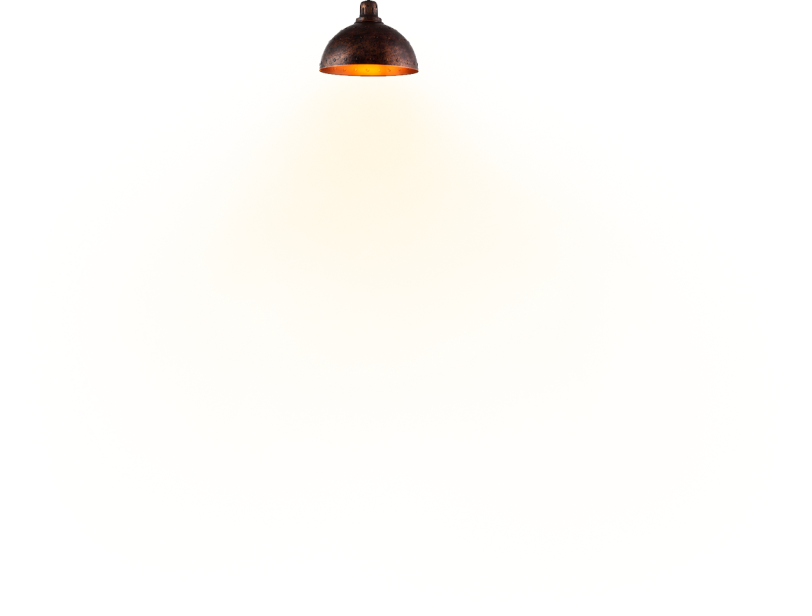
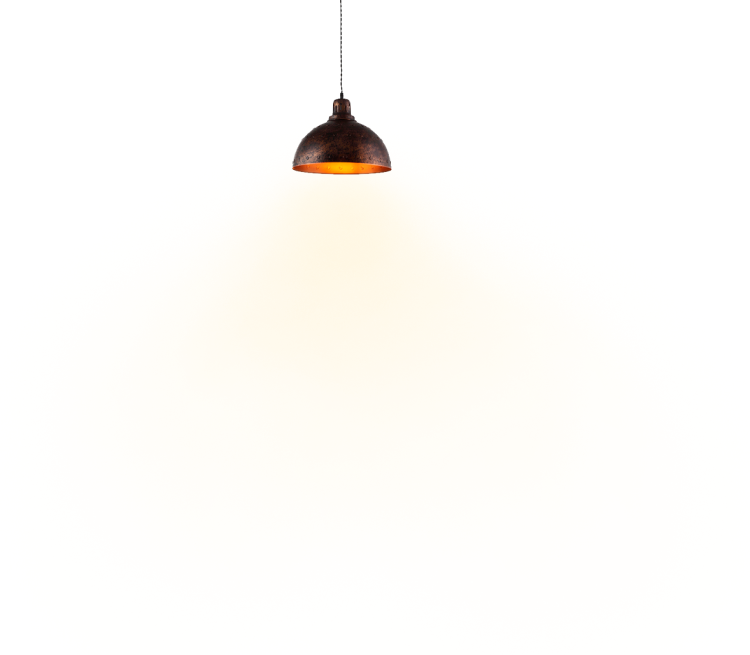
Исправление багов

Changed region(s): [[0.368, 0.0, 0.5213, 0.2776]]

diff --git a/designloft/src/css/style.min.css b/designloft/src/css/style.min.css
@@ -1,0 +1,2 @@
+*{-webkit-box-sizing:border-box;box-sizing:border-box}ul{list-style:none;padding:0}.container{display:-ms-grid;display:grid;-ms-grid-columns:1fr 4fr 2fr 1fr;grid-template-columns:1fr 4fr 2fr 1fr;-webkit-box-align:center;-ms-flex-align:center;align-items:center}@media (max-width: 768px){.container{-ms-grid-columns:1fr;grid-template-columns:1fr;padding:0 20px}}.price-dots{display:-webkit-box;display:-ms-flexbox;display:flex;-webkit-box-pack:center;-ms-flex-pack:center;justify-content:center;margin-top:30px}.price-dot{display:none;padding:0;border:none;background:#c4c4c4;width:5px;height:5px;border-radius:50%;margin:0 10px;opacity:0.25}.list{width:737px}.list__item{display:inline-block;margin-right:10px}.list__item:last-child{margin-right:0}p{margin:0}img{max-width:100%}a{text-decoration:none;color:#fff}body{color:#fff;font-family:'Montserrat', sans-serif}.logo{font-size:18px;text-transform:uppercase}.logo__dot{color:#FF6A2B}.button{border:none;padding:15px 45px;background:#FF6A2B;-webkit-box-shadow:0px 0px 20px rgba(255,106,43,0.4);box-shadow:0px 0px 20px rgba(255,106,43,0.4);border-radius:30px;color:#fff;font-size:18px;line-height:22px;cursor:pointer;-webkit-transition:all 0.4s ease;-o-transition:all 0.4s ease;transition:all 0.4s ease}.button:hover{background:#ff5f1c}.button:focus{outline:none}.section{padding:60px 0}.section-title{font-size:36px;font-weight:700;text-align:center;-ms-grid-row:1;-ms-grid-row-span:1;grid-row:1/2;-ms-grid-column:2;-ms-grid-column-span:2;grid-column:2/4}.section-subtitle{font-size:22px;font-weight:400;letter-spacing:150%;max-width:445px}.input{font-size:22px;font-weight:400;text-align:center;background:none;border:none;max-width:350px;border-bottom:2px solid #C2C2C2;padding:13px;color:#fff}.input:focus{outline:none;border-bottom:2px solid #FF6A2B}.form{text-align:center;width:90%;-ms-grid-column-align:center;justify-self:center}.form__title{font-size:36px;font-weight:700;padding:0 15px;background:#262626}.form__subtitle{display:block;margin:30px auto;font-size:18px;font-weight:400;line-height:150%}.form__input{display:block;margin:60px auto}.form__button{margin:auto;margin-bottom:60px}@media (min-width: 1200px){.list__item::after{content:'';display:block;width:100%;height:1px;background:#FF6A2B;margin-top:5px;opacity:0;-webkit-transition:all 0.9s ease;-o-transition:all 0.9s ease;transition:all 0.9s ease}.list__item:hover::after{opacity:1}}@media (max-width: 1200px){.section-title{font-size:22px;line-height:1.2}}@media (max-width: 768px){.section-title{font-size:20px}.input{font-size:16px}.price-dot{display:block}.price-dot.active{opacity:1;-webkit-transform:scale(1.3);-ms-transform:scale(1.3);transform:scale(1.3)}.form{width:100%}.form__title{font-size:20px}.form__subtitle{font-size:14px}}.navbar{position:absolute;top:0;left:0;background:transparent;-webkit-box-shadow:0px 10px 20px rgba(0,0,0,0.2);box-shadow:0px 10px 20px rgba(0,0,0,0.2);width:100%;display:-ms-grid;display:grid;-ms-grid-columns:1fr 4fr 2fr 1fr;grid-template-columns:1fr 4fr 2fr 1fr;-webkit-box-align:center;-ms-flex-align:center;align-items:center;padding:20px 1%;z-index:99}.navbar-button,.navbar-call{display:none}.navbar__logo{-ms-grid-column:1;-ms-grid-column-span:1;grid-column:1/2;-ms-grid-row:1;-ms-grid-row-span:1;grid-row:1/2;-ms-grid-column-align:center;justify-self:center;padding-right:30px}.navbar-list{-ms-grid-column:2;-ms-grid-column-span:1;grid-column:2/3}.navbar-list__link{font-size:18px;font-weight:400}.navbar__contacts{-ms-grid-column:3;-ms-grid-column-span:1;grid-column:3/4;-ms-grid-row:1;-ms-grid-row-span:1;grid-row:1/2;-ms-grid-column-align:end;justify-self:end;text-align:right}.navbar__description{display:block;font-size:12px;color:#bfbfbf}.navbar__phone{color:#fff;font-size:22px;font-weight:300}.navbar__lang{font-size:18px;background:none;width:55px;border:none;color:#fff;cursor:pointer;text-transform:uppercase;-ms-grid-column-align:center;justify-self:center;-ms-grid-column:4;-ms-grid-column-span:1;grid-column:4/5;-ms-grid-row:1;-ms-grid-row-span:1;grid-row:1/2}.navbar__lang:focus{outline:none}.navbar__option{background:#131313;cursor:pointer}@media (max-width: 1200px){.navbar{-ms-grid-columns:1fr 2fr 3fr;grid-template-columns:1fr 2fr 3fr}.navbar__logo{-ms-grid-column:1;-ms-grid-column-span:1;grid-column:1/2}.navbar-list{-ms-grid-row:2;-ms-grid-row-span:1;grid-row:2/3;-ms-grid-column:1;-ms-grid-column-span:3;grid-column:1/4;margin-top:20px;-ms-grid-column-align:start;justify-self:start}.navbar-list__link{font-size:16px}.navbar__contacts{-ms-grid-column:3;-ms-grid-column-span:1;grid-column:3/4;-ms-grid-row:1;-ms-grid-row-span:1;grid-row:1/2}.navbar__lang{-ms-grid-row:1;-ms-grid-row-span:2;grid-row:1/3;margin-right:20px}}@media (max-width: 768px){.navbar{-ms-grid-columns:1fr 4fr 1fr;grid-template-columns:1fr 4fr 1fr}.navbar-button{display:-webkit-box;display:-ms-flexbox;display:flex;-webkit-box-orient:vertical;-webkit-box-direction:normal;-ms-flex-direction:column;flex-direction:column;-webkit-box-pack:center;-ms-flex-pack:center;justify-content:center;-ms-grid-column:1;-ms-grid-column-span:1;grid-column:1/2;-ms-grid-row:1;-ms-grid-row-span:1;grid-row:1/2;height:100%;justify-self:center;background-color:transparent;border:none}.navbar-button__line{display:block;width:22px;height:2px;background-color:#e6e6e6;margin-bottom:4px}.navbar-button__line:last-child{margin-bottom:0}.navbar__logo{-ms-grid-column:2;-ms-grid-column-span:1;grid-column:2/3;-ms-grid-row:1;-ms-grid-row-span:1;grid-row:1/2;padding-right:0}.navbar-list{display:none}.navbar__contacts{display:none}.navbar__lang{display:none}.navbar-call{display:block;width:16px;height:16px;-ms-grid-row:1;-ms-grid-row-span:1;grid-row:1/2;-ms-grid-column:3;-ms-grid-column-span:1;grid-column:3/4;-ms-grid-column-align:center;justify-self:center}}.header{position:relative;background-color:#131313;display:-ms-grid;display:grid;-webkit-box-align:center;-ms-flex-align:center;align-items:center;position:relative}.header-light{position:absolute;top:0;left:7%;-o-object-fit:cover;object-fit:cover;overflow:hidden;-webkit-transform:translateX(-7%);-ms-transform:translateX(-7%);transform:translateX(-7%)}.header__title{-ms-grid-column:2;-ms-grid-column-span:1;grid-column:2/3;-ms-grid-row:1;-ms-grid-row-span:1;grid-row:1/2;font-size:44px;font-weight:700;max-width:710px;margin-bottom:40px;margin-top:140px}.header-list{-ms-grid-column:2;-ms-grid-column-span:1;grid-column:2/3;-ms-grid-row:2;-ms-grid-row-span:1;grid-row:2/3;padding-left:30px}.header-list__item{font-size:20px;font-weight:400;margin-bottom:20px;position:relative;padding-left:30px}.header-list__item::before{content:'';display:block;width:9px;height:9px;background:#ff8e5e;-webkit-filter:blur(4px);filter:blur(4px);position:absolute;top:0;left:0;-webkit-transform:translateY(50%);-ms-transform:translateY(50%);transform:translateY(50%)}.header-list__item:last-child{margin-bottom:60px}.header__button{margin-left:100px;max-width:175px;position:relative;z-index:5;-ms-grid-row:3;-ms-grid-row-span:1;grid-row:3/4;-ms-grid-column:2;-ms-grid-column-span:1;grid-column:2/3}.header__image{-ms-grid-column:3;-ms-grid-column-span:1;grid-column:3/4;-ms-grid-row:1;-ms-grid-row-span:3;grid-row:1/4;-ms-grid-column-align:center;justify-self:center;margin-top:130px}.header-info{background-color:#292929;padding:95px 100px;-ms-grid-row:4;-ms-grid-row-span:1;grid-row:4/5;-ms-grid-column:2;-ms-grid-column-span:2;grid-column:2/4;width:90%;position:relative;-webkit-transform:translateY(70%);-ms-transform:translateY(70%);transform:translateY(70%);margin:0 auto;margin-top:-5%}.header__description{text-align:center;font-size:22px;font-weight:400;line-height:150%;max-width:676px;margin:auto}.corner-left,.corner-right{display:-webkit-box;display:-ms-flexbox;display:flex;-webkit-box-orient:vertical;-webkit-box-direction:normal;-ms-flex-direction:column;flex-direction:column;-webkit-box-align:center;-ms-flex-align:center;align-items:center;-webkit-box-pack:center;-ms-flex-pack:center;justify-content:center;width:140px;height:80px}.corner-left{position:absolute;top:-10px;left:-40px;-webkit-transform:rotate(-45deg);-ms-transform:rotate(-45deg);transform:rotate(-45deg)}.corner-right{position:absolute;top:-10px;right:-40px;-webkit-transform:rotate(45deg);-ms-transform:rotate(45deg);transform:rotate(45deg)}.corner__line{display:block;width:97px;height:8px;background:#383838;margin-bottom:7px;border-radius:12px}.long_line{width:130px}@media (max-width: 1200px){.header__title{font-size:36px}.header-list__item{font-size:16px}.header__image{-ms-grid-column:3;-ms-grid-column-span:2;grid-column:3/5}}@media (max-width: 768px){.header{background-color:#131313;-ms-grid-columns:1fr;grid-template-columns:1fr;-ms-grid-rows:(auto)[2];grid-template-rows:repeat(2, auto);padding:0 15px}.header__title{font-size:22px;margin-top:110px;text-align:center;-ms-grid-column:1;-ms-grid-column-span:3;grid-column:1/4}.header__image{-ms-grid-row:2;-ms-grid-row-span:1;grid-row:2/3;-ms-grid-column:1;-ms-grid-column-span:3;grid-column:1/4;margin-top:0;-ms-grid-column-align:center;justify-self:center}.header-list{-ms-grid-row:3;-ms-grid-row-span:1;grid-row:3/4;grid-column:span 4}.header__button{-ms-grid-row:4;-ms-grid-row-span:1;grid-row:4/5;-ms-grid-column:1;-ms-grid-column-span:1;grid-column:1/2;display:block;width:300px;margin:auto;margin-top:-5%}.header-info{-ms-grid-column:1;-ms-grid-column-span:3;grid-column:1/4;padding:50px 20px}.header__description{font-size:16px}.corner-left,.corner-right{display:none}}.features{background:#262626;padding-top:300px;padding-bottom:110px}.features-title{display:block;margin:0;font-size:32px;line-height:39px;font-weight:700;max-width:445px;position:relative}.features-title::after{content:'';display:block;width:70px;height:4px;background:#FF6A2B;margin-top:20px}.features-subtitle{font-size:22px;font-weight:400;letter-spacing:150%;max-width:445px}.features-first{display:-ms-grid;display:grid;-ms-grid-columns:2fr 4fr;grid-template-columns:2fr 4fr;grid-auto-rows:2,auto;-ms-grid-column:2;-ms-grid-column-span:2;grid-column:2/4;-webkit-box-align:center;-ms-flex-align:center;align-items:center}.features-first__title{-ms-grid-column:1;-ms-grid-column-span:2;grid-column:1/3;-ms-grid-row:1;-ms-grid-row-span:1;grid-row:1/2}.features-first__subtitle{-ms-grid-column:1;-ms-grid-column-span:2;grid-column:1/3;-ms-grid-row:2;-ms-grid-row-span:1;grid-row:2/3}.features-first__img{-ms-grid-column:3;-ms-grid-column-span:1;grid-column:3/4;-ms-grid-row:1;-ms-grid-row-span:2;grid-row:1/3;position:relative;padding:20px;max-width:540px}.features-first__left,.features-first__right{width:50%;height:50%;position:absolute}.features-first__left{bottom:0;left:0;border-left:4px solid #999;border-bottom:4px solid #999}.features-first__right{top:0;right:0;border-right:4px solid #999;border-top:4px solid #999}.features__description{-ms-grid-row:3;-ms-grid-row-span:1;grid-row:3/4;-ms-grid-column:2;-ms-grid-column-span:2;grid-column:2/4;display:block;margin:0 auto;margin-top:110px;margin-bottom:30px;font-size:24px;line-height:34px;font-weight:400;text-align:center;max-width:951px}.features-pictures{-ms-grid-row:4;-ms-grid-row-span:1;grid-row:4/5;-ms-grid-column:2;-ms-grid-column-span:2;grid-column:2/4;display:-ms-grid;display:grid;-ms-grid-column-align:center;justify-self:center;-ms-grid-columns:(1fr)[2];grid-template-columns:repeat(2, 1fr);-webkit-column-gap:30px;column-gap:30px}.features-picture:last-child{position:relative;left:40%;top:-70%}.features-picture:nth-child(2){margin-top:50px}.features-second{display:-ms-grid;display:grid;-ms-grid-columns:2fr 4fr;grid-template-columns:2fr 4fr;-ms-grid-column:2;-ms-grid-column-span:2;grid-column:2/4;-ms-grid-row:5;-ms-grid-row-span:1;grid-row:5/6;-webkit-box-align:center;-ms-flex-align:center;align-items:center;z-index:4}.features-second__title{-ms-grid-row:1;-ms-grid-row-span:1;grid-row:1/2;-ms-grid-column:3;-ms-grid-column-span:1;grid-column:3/4;-ms-grid-column-align:end;justify-self:end;margin-left:20px}.features-second__subtitle{-ms-grid-row:2;-ms-grid-row-span:1;grid-row:2/3;-ms-grid-column:3;-ms-grid-column-span:1;grid-column:3/4;-ms-grid-column-align:end;justify-self:end;margin-left:20px}.features-second__img{-ms-grid-column:1;-ms-grid-column-span:2;grid-column:1/3;-ms-grid-row:1;-ms-grid-row-span:2;grid-row:1/3;max-width:540px;position:relative;z-index:10;padding:20px}.features-second__left,.features-second__right{width:50%;height:50%;position:absolute;z-index:6}.features-second__left{top:0;left:0;border-left:4px solid #999;border-top:4px solid #999}.features-second__right{bottom:0;right:0;border-right:4px solid #999;border-bottom:4px solid #999}@media (max-width: 1200px){.features-title{font-size:20px;line-height:1.4}.features-first{-ms-grid-columns:4fr 2fr;grid-template-columns:4fr 2fr}.features-first__img{max-width:320px;padding:10px;-ms-grid-column:3;-ms-grid-column-span:1;grid-column:3/4}.features-first__subtitle{font-size:16px;max-width:350px}.features__description{font-size:18px;line-height:1.4}.features-second{-ms-grid-columns:4fr 1fr;grid-template-columns:4fr 1fr;margin:0 auto}.features-second__img{width:320px;min-width:100%;padding:10px;-ms-grid-column:1;-ms-grid-column-span:1;grid-column:1/2}.features-second__title{-ms-grid-column:3;-ms-grid-column-span:2;grid-column:3/5;margin-left:20px}.features-second__subtitle{font-size:16px;max-width:350px;-ms-grid-column-align:start;justify-self:start;-ms-grid-column:3;-ms-grid-column-span:2;grid-column:3/5;margin-left:20px}}@media (max-width: 768px){.features-first,.features-second{-ms-grid-columns:1fr;grid-template-columns:1fr;-ms-grid-column-align:center;justify-self:center}.features-first__title,.features-second__title{-ms-grid-column:1;-ms-grid-column-span:4;grid-column:1/5;-ms-grid-row:1;-ms-grid-row-span:1;grid-row:1/2}.features-first__subtitle,.features-second__subtitle{-ms-grid-column:1;-ms-grid-column-span:4;grid-column:1/5;margin-top:20px;margin-bottom:20px}.features-first__img,.features-second__img{-ms-grid-row:3;-ms-grid-row-span:1;grid-row:3/4;-ms-grid-column:1;-ms-grid-column-span:4;grid-column:1/5;max-width:100%;padding:0}.features-first__left,.features-first__right,.features-second__left,.features-second__right{display:none}.features-second__title{-ms-grid-column:1;-ms-grid-column-span:4;grid-column:1/5;-ms-grid-row:1;-ms-grid-row-span:1;grid-row:1/2;margin-left:0}.features-second__subtitle{-ms-grid-column:1;-ms-grid-column-span:4;grid-column:1/5;margin-top:20px;margin-bottom:20px;margin-left:0}.features-second__img{-ms-grid-row:3;-ms-grid-row-span:1;grid-row:3/4;-ms-grid-column:1;-ms-grid-column-span:4;grid-column:1/5;max-width:100%;padding:0;margin-right:0}.features-second__left,.features-second__right{display:none}.features-pictures{-webkit-column-gap:0px;column-gap:0px;row-gap:10px;margin-bottom:20px;-ms-grid-rows:(auto)[2];grid-template-rows:repeat(2, auto);-ms-grid-column-align:center;justify-self:center;padding-left:5%}.features-picture{max-width:252px}.features-picture:last-child{top:50%;left:-50%}.features-picture:nth-child(2){-ms-grid-row:2;-ms-grid-row-span:1;grid-row:2/3;-ms-grid-column:1;-ms-grid-column-span:1;grid-column:1/2;margin-top:0}}.projects{background:#131313;-ms-grid-rows:(auto)[2];grid-template-rows:repeat(2, auto)}.projects-row{-ms-grid-row:2;-ms-grid-row-span:1;grid-row:2/3;-ms-grid-column:2;-ms-grid-column-span:2;grid-column:2/4;display:-ms-grid;display:grid;-ms-grid-columns:(auto)[4];grid-template-columns:repeat(4, auto);-ms-grid-rows:(auto)[4];grid-template-rows:repeat(4, auto);-ms-grid-row-align:center;align-self:center;-webkit-box-pack:center;-ms-flex-pack:center;justify-content:center;grid-auto-columns:fill-content(20%);grid-gap:30px;margin-bottom:80px}.projects__img{-ms-flex-item-align:center;-ms-grid-row-align:center;align-self:center;position:relative}.projects__img:nth-child(1){-ms-grid-column:1;-ms-grid-column-span:1;grid-column:1/2;-ms-grid-row:1;-ms-grid-row-span:1;grid-row:1/2}.projects__img:nth-child(2){-ms-grid-column:1;-ms-grid-column-span:1;grid-column:1/2;-ms-grid-row:2;-ms-grid-row-span:1;grid-row:2/3}.projects__img:nth-child(3){-ms-grid-row:1;-ms-grid-row-span:2;grid-row:1/3;-ms-grid-column:2;-ms-grid-column-span:1;grid-column:2/3}.projects__img:nth-child(4){-ms-grid-row:1;-ms-grid-row-span:2;grid-row:1/3;-ms-grid-column:3;-ms-grid-column-span:2;grid-column:3/5}.projects__img:nth-child(5){-ms-grid-row:3;-ms-grid-row-span:2;grid-row:3/5;-ms-grid-column:1;-ms-grid-column-span:2;grid-column:1/3}.projects__img:nth-child(6){-ms-grid-row:3;-ms-grid-row-span:2;grid-row:3/5;-ms-grid-column:3;-ms-grid-column-span:1;grid-column:3/4}.projects__img:nth-child(7){-ms-grid-row:3;-ms-grid-row-span:1;grid-row:3/4;-ms-grid-column:4;-ms-grid-column-span:1;grid-column:4/5}.projects__img:nth-child(8){-ms-grid-row:4;-ms-grid-row-span:1;grid-row:4/5;-ms-grid-column:4;-ms-grid-column-span:1;grid-column:4/5}.projects__img::before{content:'';position:absolute;top:0;left:0;width:100%;height:100%;background-color:#000;opacity:0.3}.projects__text{position:absolute;bottom:0;left:0;width:100%;height:100%;display:-webkit-box;display:-ms-flexbox;display:flex;-webkit-box-align:end;-ms-flex-align:end;align-items:flex-end;background:transparent;padding-bottom:25px;padding:25px}.projects__subtitle{font-size:24px;font-weight:700;color:#fff}.projects__next{display:block;position:relative;font-size:18px;font-weight:400;margin-top:10px;margin-right:15px}.projects__arrow{margin-left:15px}.projects__button{-ms-grid-row:3;-ms-grid-row-span:1;grid-row:3/4;-ms-grid-column:2;-ms-grid-column-span:2;grid-column:2/4;-ms-grid-column-align:center;justify-self:center;text-align:center;padding:20px 30px}@media (max-width: 1200px){.projects__subtitle{font-size:18px}.projects__next{font-size:14px}.projects-row{grid-gap:10px}.projects__text{padding:10px}}@media (max-width: 768px){.projects__title{-ms-grid-column:1;-ms-grid-column-span:3;grid-column:1/4}.projects-row{grid-gap:10px;-ms-grid-columns:1fr;grid-template-columns:1fr;-ms-grid-row:2;-ms-grid-row-span:1;grid-row:2/3;-ms-grid-column:1;-ms-grid-column-span:3;grid-column:1/4;-ms-grid-column-align:center;justify-self:center}.projects__img:nth-child(-n+3),.projects__img:nth-child(n+6){display:none}.projects__img:nth-child(4){-ms-grid-row:1;-ms-grid-row-span:1;grid-row:1/2;-ms-grid-column:1;-ms-grid-column-span:5;grid-column:1/6}.projects__img:nth-child(5){-ms-grid-row:2;-ms-grid-row-span:1;grid-row:2/3;-ms-grid-column:1;-ms-grid-column-span:5;grid-column:1/6}.projects__button{-ms-grid-column:1;-ms-grid-column-span:3;grid-column:1/4}}.owl-carousel{display:none;width:100%;-webkit-tap-highlight-color:transparent;position:relative;z-index:1}.owl-carousel .owl-stage{position:relative;-ms-touch-action:pan-Y;touch-action:manipulation;-moz-backface-visibility:hidden}.owl-carousel .owl-stage:after{content:".";display:block;clear:both;visibility:hidden;line-height:0;height:0}.owl-carousel .owl-stage-outer{position:relative;overflow:hidden;-webkit-transform:translate3d(0px, 0px, 0px)}.owl-carousel .owl-wrapper,.owl-carousel .owl-item{-webkit-backface-visibility:hidden;-moz-backface-visibility:hidden;-ms-backface-visibility:hidden;-webkit-transform:translate3d(0, 0, 0);-moz-transform:translate3d(0, 0, 0);-ms-transform:translate3d(0, 0, 0)}.owl-carousel .owl-item{position:relative;min-height:1px;float:left;-webkit-backface-visibility:hidden;-webkit-tap-highlight-color:transparent;-webkit-touch-callout:none}.owl-carousel .owl-item img{display:block;width:100%}.owl-carousel .owl-nav.disabled,.owl-carousel .owl-dots.disabled{display:none}.owl-carousel .owl-nav .owl-prev,.owl-carousel .owl-nav .owl-next,.owl-carousel .owl-dot{cursor:pointer;-webkit-user-select:none;-moz-user-select:none;-ms-user-select:none;user-select:none}.owl-carousel .owl-nav button.owl-prev,.owl-carousel .owl-nav button.owl-next,.owl-carousel button.owl-dot{background:none;color:inherit;border:none;padding:0 !important;font:inherit}.owl-carousel.owl-loaded{display:block}.owl-carousel.owl-loading{opacity:0;display:block}.owl-carousel.owl-hidden{opacity:0}.owl-carousel.owl-refresh .owl-item{visibility:hidden}.owl-carousel.owl-drag .owl-item{-ms-touch-action:pan-y;touch-action:pan-y;-webkit-user-select:none;-moz-user-select:none;-ms-user-select:none;user-select:none}.owl-carousel.owl-grab{cursor:move;cursor:-webkit-grab;cursor:grab}.owl-carousel.owl-rtl{direction:rtl}.owl-carousel.owl-rtl .owl-item{float:right}.no-js .owl-carousel{display:block}.owl-carousel .animated{-webkit-animation-duration:1000ms;animation-duration:1000ms;-webkit-animation-fill-mode:both;animation-fill-mode:both}.owl-carousel .owl-animated-in{z-index:0}.owl-carousel .owl-animated-out{z-index:1}.owl-carousel .fadeOut{-webkit-animation-name:fadeOut;animation-name:fadeOut}@-webkit-keyframes fadeOut{0%{opacity:1}100%{opacity:0}}@keyframes fadeOut{0%{opacity:1}100%{opacity:0}}.owl-height{-webkit-transition:height 500ms ease-in-out;-o-transition:height 500ms ease-in-out;transition:height 500ms ease-in-out}.owl-carousel .owl-item .owl-lazy{opacity:0;-webkit-transition:opacity 400ms ease;-o-transition:opacity 400ms ease;transition:opacity 400ms ease}.owl-carousel .owl-item .owl-lazy[src^=""],.owl-carousel .owl-item .owl-lazy:not([src]){max-height:0}.owl-carousel .owl-item img.owl-lazy{-webkit-transform-style:preserve-3d;transform-style:preserve-3d}.owl-carousel .owl-video-wrapper{position:relative;height:100%;background:#000}.owl-carousel .owl-video-play-icon{position:absolute;height:80px;width:80px;left:50%;top:50%;margin-left:-40px;margin-top:-40px;background:url("owl.video.play.png") no-repeat;cursor:pointer;z-index:1;-webkit-backface-visibility:hidden;-webkit-transition:-webkit-transform 100ms ease;transition:-webkit-transform 100ms ease;-o-transition:transform 100ms ease;transition:transform 100ms ease;transition:transform 100ms ease, -webkit-transform 100ms ease}.owl-carousel .owl-video-play-icon:hover{-webkit-transform:scale(1.3, 1.3);-ms-transform:scale(1.3, 1.3);transform:scale(1.3, 1.3)}.owl-carousel .owl-video-playing .owl-video-tn,.owl-carousel .owl-video-playing .owl-video-play-icon{display:none}.owl-carousel .owl-video-tn{opacity:0;height:100%;background-position:center center;background-repeat:no-repeat;background-size:contain;-webkit-transition:opacity 400ms ease;-o-transition:opacity 400ms ease;transition:opacity 400ms ease}.owl-carousel .owl-video-frame{position:relative;z-index:1;height:100%;width:100%}.price{background:#262626}.card{background:#000;padding:50px 0;text-align:center;border-radius:10px;max-width:350px;margin:0 auto}.card__title{font-size:36px;font-weight:700;margin:0;margin-bottom:40px}.card__value{display:block;font-size:18px;font-weight:400;margin-bottom:80px}.card__tag{font-size:28px;font-weight:700}.card-list{height:175px;margin-bottom:160px;font-size:22px;font-weight:400}.card-list__item{margin-bottom:25px}.card-list__item:last-child{margin-bottom:0px}.cards{-ms-grid-column:2;-ms-grid-column-span:2;grid-column:2/4;-ms-grid-row:2;-ms-grid-row-span:2;grid-row:2/4}@media (max-width: 1200px){.card__button{padding:10px 25px;font-size:16px}.card__title{font-size:22px}.card__value{font-size:14px}.card__tag{font-size:18px}.card-list{font-size:14px;height:82px}}@media (max-width: 768px){.price__title{-ms-grid-column:1;-ms-grid-column-span:2;grid-column:1/3}.card__title{font-size:36px}.card__value{font-size:18px}.card__tag{font-size:28px}.card-list{font-size:22px;height:175px}.card__button{padding:9px 35px}.cards{-ms-grid-column:1;-ms-grid-column-span:2;grid-column:1/3}}.working{background:#262626}.working__title{margin-bottom:40px}.working-row{-ms-grid-row:2;-ms-grid-row-span:1;grid-row:2/3;-ms-grid-column:2;-ms-grid-column-span:2;grid-column:2/4;display:-ms-grid;display:grid;-ms-grid-columns:(minmax(25%, max-content))[auto-fill];grid-template-columns:repeat(auto-fill, minmax(25%, -webkit-max-content));grid-template-columns:repeat(auto-fill, minmax(25%, max-content));-webkit-box-pack:justify;-ms-flex-pack:justify;justify-content:space-between;margin-bottom:40px}.working-col{text-align:center;display:-ms-grid;display:grid;-ms-grid-rows:100px auto;grid-template-rows:100px auto;justify-items:center}.working__number{font-size:96px;font-weight:700}.working__description{font-size:24px;font-weight:400;max-width:230px}.working__next{-ms-grid-row:3;-ms-grid-row-span:1;grid-row:3/4;-ms-grid-column:2;-ms-grid-column-span:2;grid-column:2/4;text-align:center;font-size:18px;font-weight:400;margin-bottom:120px}.working__arrow{margin-left:24px}.working__form{-ms-grid-row:4;-ms-grid-row-span:1;grid-row:4/5;-ms-grid-column:2;-ms-grid-column-span:2;grid-column:2/4}@media (max-width: 1200px){.working-row{-ms-grid-columns:(minmax(50%, max-content))[auto-fill];grid-template-columns:repeat(auto-fill, minmax(50%, -webkit-max-content));grid-template-columns:repeat(auto-fill, minmax(50%, max-content))}}@media (max-width: 768px){.working-row,.working__title{-ms-grid-column:1;-ms-grid-column-span:2;grid-column:1/3}.working-col{-ms-grid-rows:50px;grid-template-rows:50px}.working__number{font-size:48px}.working__description{font-size:16px;max-width:135px;-ms-flex-item-align:center;-ms-grid-row-align:center;align-self:center}.working__form,.working__next{-ms-grid-column:1;-ms-grid-column-span:3;grid-column:1/4}}.footer{background:#131313;padding-top:60px;padding-bottom:30px}.footer-block{-ms-grid-row:1;-ms-grid-row-span:1;grid-row:1/2;-ms-grid-column:2;-ms-grid-column-span:2;grid-column:2/4;display:-ms-grid;display:grid;-ms-grid-columns:(minmax(33%, max-content))[auto-fill];grid-template-columns:repeat(auto-fill, minmax(33%, -webkit-max-content));grid-template-columns:repeat(auto-fill, minmax(33%, max-content));-ms-grid-rows:(auto)[3];grid-template-rows:repeat(3, auto);grid-row-gap:70px;-webkit-box-align:center;-ms-flex-align:center;align-items:center;text-align:center}.footer__info{-ms-grid-column-align:start;justify-self:start;font-size:20px;font-weight:400}.footer__vk,.footer__im,.footer__fb{display:inline-block}.footer__contacts{display:-ms-grid;display:grid;-ms-grid-columns:(minmax(80px, max-content))[3];grid-template-columns:repeat(3, minmax(80px, -webkit-max-content));grid-template-columns:repeat(3, minmax(80px, max-content));-webkit-box-align:center;-ms-flex-align:center;align-items:center;-webkit-box-pack:center;-ms-flex-pack:center;justify-content:center}.footer__phone{-ms-grid-column-align:end;justify-self:end;font-size:20px;font-weight:400}.footer-list{-ms-grid-row:2;-ms-grid-row-span:1;grid-row:2/3;-ms-grid-column:1;-ms-grid-column-span:3;grid-column:1/4;width:100%;margin:0 auto}.footer-list__link{font-size:18px;font-weight:400}.footer__copyright{-ms-grid-row:3;-ms-grid-row-span:1;grid-row:3/4;-ms-grid-column:1;-ms-grid-column-span:3;grid-column:1/4;text-align:center;font-size:14px;font-weight:400}@media (max-width: 1200px){.footer__info,.footer__phone{font-size:16px}.footer-list__link{font-size:14px}}@media (max-width: 768px){.footer-block{grid-row-gap:40px;-ms-grid-column:1;-ms-grid-column-span:3;grid-column:1/4;-ms-grid-rows:(auto)[2];grid-template-rows:repeat(2, auto)}.footer__info,.footer__phone{display:none}.footer__contacts{-ms-grid-column:1;-ms-grid-column-span:3;grid-column:1/4}.footer-list{display:none}}.present{background:#262626}.present__title{margin-bottom:80px}.present-title{font-size:28px;font-weight:700;max-width:535px}.present-description{font-size:18px;font-weight:400;max-width:475px}.present-first{-ms-grid-row:2;-ms-grid-row-span:1;grid-row:2/3;-ms-grid-column:2;-ms-grid-column-span:2;grid-column:2/4;display:-ms-grid;display:grid;-ms-grid-columns:(minmax(60px, minmax(max-content, 1fr)))[12];grid-template-columns:repeat(12, minmax(60px, minmax(-webkit-max-content, 1fr)));grid-template-columns:repeat(12, minmax(60px, minmax(max-content, 1fr)));grid-auto-columns:minmax(-webkit-max-content, 1fr);grid-auto-columns:minmax(max-content, 1fr);-webkit-box-align:center;-ms-flex-align:center;align-items:center;grid-gap:30px}.present-first__text{grid-column:span 6;-ms-grid-row:1;-ms-grid-row-span:2;grid-row:1/3;-ms-flex-item-align:start;-ms-grid-row-align:start;align-self:start;margin-top:60px}.present-first__img{-ms-flex-item-align:center;-ms-grid-row-align:center;align-self:center;-ms-grid-column-align:center;justify-self:center}.present-first__img:first-of-type{-ms-grid-column-align:start;justify-self:start;grid-column:span 6;-ms-grid-row:1;-ms-grid-row-span:2;grid-row:1/3}.present-first__img:nth-of-type(2){-ms-grid-column-align:start;justify-self:start;max-height:400px;grid-column:span 3;-ms-grid-row:3;-ms-grid-row-span:2;grid-row:3/5}.present-first__img:nth-of-type(3){max-height:200px;grid-column:span 4;-ms-grid-row:3;-ms-grid-row-span:1;grid-row:3/4}.present-first__img:nth-of-type(4){max-height:200px;grid-column:span 4;-ms-grid-row:4;-ms-grid-row-span:1;grid-row:4/5}.present-first__img:nth-of-type(5){grid-column:span 5;-ms-grid-row:3;-ms-grid-row-span:2;grid-row:3/5;-ms-grid-column-align:end;justify-self:end}.present-second{padding:100px 0px;-ms-grid-row:3;-ms-grid-row-span:1;grid-row:3/4;-ms-grid-column:2;-ms-grid-column-span:2;grid-column:2/4;display:-ms-grid;display:grid;-ms-grid-columns:(minmax(60px, minmax(max-content, 1fr)))[12];grid-template-columns:repeat(12, minmax(60px, minmax(-webkit-max-content, 1fr)));grid-template-columns:repeat(12, minmax(60px, minmax(max-content, 1fr)));grid-auto-columns:minmax(-webkit-max-content, 1fr);grid-auto-columns:minmax(max-content, 1fr);-webkit-box-align:center;-ms-flex-align:center;align-items:center;grid-gap:30px}.present-second__text{-ms-grid-row:1;-ms-grid-row-span:2;grid-row:1/3;grid-column:span 6}.present-second__img{-ms-grid-column-align:center;justify-self:center}.present-second__img:nth-of-type(2){-ms-grid-row:1;-ms-grid-row-span:2;grid-row:1/3;grid-column:span 6;-ms-grid-column-align:end;justify-self:end}.present-second__img:nth-of-type(3){-ms-grid-row:3;-ms-grid-row-span:2;grid-row:3/5;grid-column:span 5;-ms-grid-column-align:start;justify-self:start}.present-second__img:nth-of-type(4){-ms-grid-row:3;-ms-grid-row-span:1;grid-row:3/4;grid-column:span 4}.present-second__img:nth-of-type(5){-ms-grid-row:4;-ms-grid-row-span:1;grid-row:4/5;grid-column:span 4}.present-second__img:nth-of-type(6){-ms-grid-row:3;-ms-grid-row-span:2;grid-row:3/5;grid-column:span 3;-ms-grid-column-align:end;justify-self:end}.present-third{-ms-grid-row:4;-ms-grid-row-span:1;grid-row:4/5;-ms-grid-column:2;-ms-grid-column-span:2;grid-column:2/4;display:-ms-grid;display:grid;-ms-grid-columns:(minmax(60px, minmax(max-content, 1fr)))[12];grid-template-columns:repeat(12, minmax(60px, minmax(-webkit-max-content, 1fr)));grid-template-columns:repeat(12, minmax(60px, minmax(max-content, 1fr)));grid-auto-columns:minmax(-webkit-max-content, 1fr);grid-auto-columns:minmax(max-content, 1fr);-webkit-box-align:center;-ms-flex-align:center;align-items:center;grid-gap:30px}.present-third__text{-ms-grid-row:1;-ms-grid-row-span:2;grid-row:1/3;grid-column:span 6}.present-third__img{-ms-grid-column-align:center;justify-self:center}.present-third__img:nth-of-type(1){-ms-grid-row:1;-ms-grid-row-span:2;grid-row:1/3;grid-column:span 6;-ms-grid-column-align:start;justify-self:start}.present-third__img:nth-of-type(2){-ms-grid-row:3;-ms-grid-row-span:2;grid-row:3/5;grid-column:span 3;-ms-grid-column-align:start;justify-self:start}.present-third__img:nth-of-type(3){-ms-grid-row:3;-ms-grid-row-span:1;grid-row:3/4;grid-column:span 4}.present-third__img:nth-of-type(4){-ms-grid-row:4;-ms-grid-row-span:1;grid-row:4/5;grid-column:span 4}.present-third__img:nth-of-type(5){-ms-grid-row:3;-ms-grid-row-span:2;grid-row:3/5;grid-column:span 5;-ms-grid-column-align:end;justify-self:end}.present__form{-ms-grid-row:5;-ms-grid-row-span:1;grid-row:5/6;-ms-grid-column:2;-ms-grid-column-span:2;grid-column:2/4;padding:130px 0}@media (max-width: 1200px){.present-first,.present-second,.present-third{grid-gap:10px}.present-title{font-size:20px}.present-description{font-size:12px}}.process{background:#262626}.process-row{-ms-grid-row:2;-ms-grid-row-span:1;grid-row:2/3;-ms-grid-column:2;-ms-grid-column-span:2;grid-column:2/4;display:-ms-grid;display:grid;-ms-grid-columns:(minmax(25%, max-content))[auto-fill];grid-template-columns:repeat(auto-fill, minmax(25%, -webkit-max-content));grid-template-columns:repeat(auto-fill, minmax(25%, max-content));grid-auto-rows:140px auto;-ms-flex-pack:distribute;justify-content:space-around;margin-bottom:120px}.process-col{text-align:center;display:-ms-grid;display:grid;-ms-grid-rows:100px auto;grid-template-rows:100px auto;justify-items:center;opacity:0.12}.process__number{font-size:144px;font-weight:700;color:#a8a8a8}.process__subtitle{font-size:18px;font-weight:400}.process__dot{width:15px;height:15px;background:#4e4e4e;border-radius:50%}.heroes{-ms-grid-row:3;-ms-grid-row-span:1;grid-row:3/4;-ms-grid-column:2;-ms-grid-column-span:2;grid-column:2/4}.hero{display:-webkit-box;display:-ms-flexbox;display:flex;-webkit-box-align:center;-ms-flex-align:center;align-items:center}.hero-text{width:60%}.hero__img{width:40%}.hero__description{max-width:540px}.hero__title{display:block;margin:0;font-size:32px;line-height:39px;font-weight:700;max-width:445px;position:relative;margin-bottom:20px}.hero__title::after{content:'';display:block;width:70px;height:4px;background:#FF6A2B;margin-top:20px}.repair{background:#131313}.repair__form{-ms-grid-column:2;-ms-grid-column-span:2;grid-column:2/4;-ms-grid-row:1;-ms-grid-row-span:1;grid-row:1/2;display:-webkit-box;display:-ms-flexbox;display:flex;-webkit-box-pack:justify;-ms-flex-pack:justify;justify-content:space-between;-webkit-box-align:center;-ms-flex-align:center;align-items:center}.repair-text__title{font-size:32px;font-weight:700}.repair-text__description{display:block;font-size:22px;font-weight:400;max-width:508px}.repair__input{display:block;font-size:18px;text-align:left}.repair-wrap{position:relative}.repair-wrap::after{content:'';background:url("../img/arrow-right.png") center no-repeat;color:red;position:absolute;right:0;top:50%;display:block;width:50px;height:10px}.clients{background:#262626}.clients__title{font-size:28px;font-weight:700;-ms-grid-column:2;-ms-grid-column-span:2;grid-column:2/4;-ms-grid-row:1;-ms-grid-row-span:1;grid-row:1/2;text-align:center;margin-bottom:50px}.clients-block{-ms-grid-column:2;-ms-grid-column-span:2;grid-column:2/4;-ms-grid-row:2;-ms-grid-row-span:1;grid-row:2/3;display:-ms-grid;display:grid;-ms-grid-columns:(1fr)[12];grid-template-columns:repeat(12, 1fr);grid-row-gap:70px}.clients__subtitle{font-size:24px;font-weight:700}.clients__subtitle:first-of-type{grid-column:span 6;-ms-grid-row:1;-ms-grid-row-span:1;grid-row:1/2}.clients__subtitle:nth-of-type(2){grid-column:span 6;-ms-grid-row:2;-ms-grid-row-span:1;grid-row:2/3}.clients__subtitle:last-of-type{grid-column:span 6;-ms-grid-row:3;-ms-grid-row-span:1;grid-row:3/4}.clients__info{font-size:18px;font-weight:400;max-width:530px}.clients__info:first-of-type{grid-column:span 6;-ms-grid-row:1;-ms-grid-row-span:1;grid-row:1/2}.clients__info:nth-of-type(2){grid-column:span 6;-ms-grid-row:2;-ms-grid-row-span:1;grid-row:2/3}.clients__info:last-of-type{grid-column:span 6;-ms-grid-row:3;-ms-grid-row-span:1;grid-row:3/4}main{position:relative;top:0;left:0}
+/*# sourceMappingURL=style.min.css.map */

diff --git a/designloft/src/sass/blocks/_header.sass b/designloft/src/sass/blocks/_header.sass
@@ -1,9 +1,19 @@
 .header
-    background: url('../img/header/light.png') 10% top no-repeat
+    position: relative
+    // background: url('../img/header/light.png') 10% top no-repeat
     background-color: $main-bg
     display: grid
     align-items: center
     position: relative
+    &-light
+        position: absolute
+        top: 0
+        left: 7%
+        object-fit: cover
+        // min-width: 612px
+        // min-height: 500px
+        overflow: hidden
+        transform: translateX(-7%)
 
     &__title
         grid-column: 2/3
@@ -101,8 +111,8 @@
 
 @media (max-width: 1200px)
     .header
-        background: url('../img/header/light.png') left top no-repeat
-        background-color: $main-bg
+        // background: url('../img/header/light.png') left top no-repeat
+        // background-color: $main-bg
         &__title
             font-size: 36px
         &-list
@@ -113,7 +123,7 @@
 
 @media (max-width: 768px)
     .header
-        background: url('../img/header/light.png') 40% top no-repeat
+        // background: url('../img/header/light.png') 40% top no-repeat
         background-color: $main-bg
         grid-template-columns: 1fr
         grid-template-rows: repeat(2, auto)

diff --git a/designloft/src/index.html b/designloft/src/index.html
@@ -6,7 +6,7 @@
     <title>DesignLoft</title>
     <link rel="stylesheet" href="css/normalize.css">
     <link href="https://fonts.googleapis.com/css?family=Montserrat:400,700&display=swap&subset=cyrillic" rel="stylesheet">
-    <link rel="stylesheet" href="css/style.css">
+    <link rel="stylesheet" href="css/style.min.css">
     
 </head>
 <body>
@@ -70,6 +70,9 @@
   
     <main>
         <header class="section header">
+            <div class="header-light">
+                <img src="./img/header/light.png" alt="Дизайн Loft">
+            </div>
             <div class="container">
         
             

diff --git a/designloft/src/sass/blocks/_navbar.sass b/designloft/src/sass/blocks/_navbar.sass
@@ -1,11 +1,15 @@
 .navbar
-    background: $main-bg
+    position: absolute
+    top: 0
+    left: 0
+    background: transparent
     box-shadow: 0px 10px 20px rgba(0, 0, 0, 0.2)
     width: 100%
     display: grid
     grid-template-columns: 1fr 4fr 2fr 1fr
     align-items: center
     padding: 20px 1%
+    z-index: 99
     &-button, &-call
         display: none
     &__logo

diff --git a/designloft/src/sass/style.sass b/designloft/src/sass/style.sass
@@ -17,3 +17,8 @@
 @import "blocks/heroes"
 @import "blocks/repairs"
 @import "blocks/clients"
+
+main
+    position: relative
+    top: 0
+    left: 0

diff --git a/README.md b/README.md
@@ -6,7 +6,7 @@
 
 [#2 Крылатко](https://nikitapomogatelev.github.io/chairs/src/ "Крылатко") - Детские бескаркасные кресла, отображается на мобильниках и мониторах
 
-[#3 RME | Ремонт массажных кресел](https://nikitapomogatelev.github.io/rme-chair/dist/index.html "RME | Ремонт массажных кресел") - Ремонт и обслуживание массажных кресел
+[#3 RME Ремонт массажных кресел](https://nikitapomogatelev.github.io/rme-chair/dist/index.html "RME Ремонт массажных кресел") - Ремонт и обслуживание массажных кресел
 
 ## Многостраничные сайты
 
